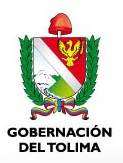
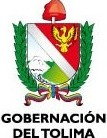
modificada vista de impresión de estampillas según indicaciones del ingeniero evelio

diff --git a/application/views/generarpdf/generarpdf_estampillalegalizada.php b/application/views/generarpdf/generarpdf_estampillalegalizada.php
@@ -25,7 +25,7 @@
                     <td class="text-center" style="height: 19mm; width: 26mm; border-top: 0.5px solid black;
                         border-right: 0.5px solid black;
                         border-left: 0.5px solid black;
-                        border-bottom: 0.5px solid black;"><img id="logo_gobernacion" src="<?php echo base_url() ?>images/gobernacion_tolima1.jpg" style="height: 16mm; width: 22mm;"></td>
+                        border-bottom: 0.5px solid black;"><img id="logo_gobernacion" src="<?php echo base_url() ?>images/gobernacion_tolima1.jpg" style="height: 15mm; width: 20mm;"></td>
 
                     <td class="text-center" id="leyenda_encabezado" colspan="3" style="height: 19mm; width: 68mm; border-top: 0.5px solid black;
                         border-right: 0.5px solid black;
@@ -48,7 +48,7 @@
                     <td class="text-center" colspan="3" style="height: 5mm; width: 62.5mm; border-top: 0.5px solid black;
                         border-right: 0.5px solid black;
                         border-left: 0.5px solid black;
-                        border-bottom: 0.5px solid black;"><?php echo $estampilla->cntr_numero; ?></td>
+                        border-bottom: 0.5px solid black;">T-45698712345</td>
                 </tr>
 
                 <tr>
@@ -134,8 +134,8 @@
                         border-right: 0.5px solid black;
                         border-left: 0.5px solid black;
                         border-bottom: 0.5px solid black;
-                        font-size:7;
-                        text-align: center;"><?php echo $estampilla->cont_nombre; ?></td>
+                        font-size:6;
+                        text-align: center;"><?php echo $estampilla->fact_nombre; ?></td>
 
                     <td style="height: 5mm; width: 13mm; border-top: 0.5px solid black;
                         border-right: 0.5px solid black;
@@ -168,7 +168,8 @@
                     <td class="text-center" colspan="2" style="height: 15mm; width: 38.5mm; border-top: 0.5px solid black;
                         border-right: 0.5px solid black;
                         border-left: 0.5px solid black;
-                        border-bottom: 0.5px solid black;"></td>
+                        border-bottom: 0.5px solid black;
+                        color: red;"><br><br>0000001</td>
                 </tr>   
             </table>
         
